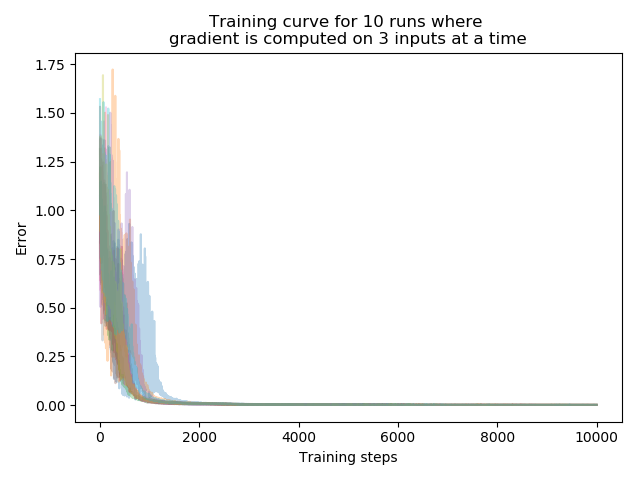
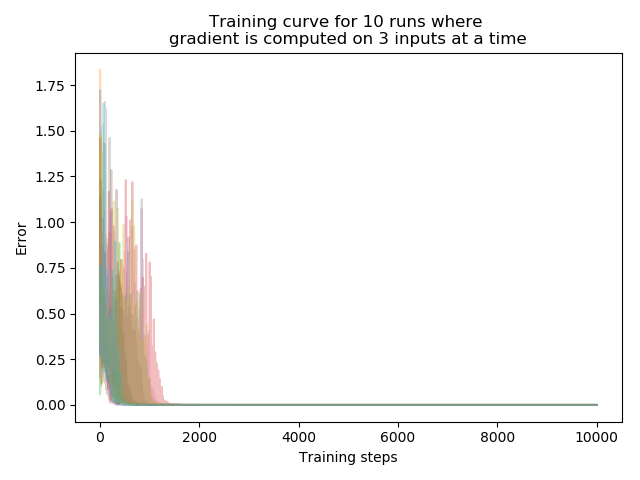
[WIP] feedback alignment weight updates

diff --git a/neural_nets/feedback_alignment.py b/neural_nets/feedback_alignment.py
@@ -30,7 +30,23 @@ class FeedbackAlignment(FNN):
         )
 
         # initializing feedback netowrk with random weights
-        self.feedback_net = FNN(reversed(units_per_layer), activation=activation)
+        self.feedback_net = FNN(list(reversed(units_per_layer)), activation=activation)
+
+    def single_update(self, input, desired_output):
+        """ one update for one input using feedback network """
+        output = self.forward(input)
+        err = desired_output - output[-1]
+        feedback = self.feedback_net.forward(err)
+
+        outer_deriv = np.reshape(self.d_activation[-1](input), [self.units_per_layer[-1],1])
+        delta_w = np.outer(outer_deriv, feedback[0])
+        self.weights[-1] += self.learning_rate * delta_w
+        self.biases[-1] +=
+        for l in range(0,self.num_layers-2):
+            self.weights[l] += self.learning_rate * np.outer(output[l], feedback[-l-2])
+            self.biases[l] += 
+
+        return err
 
     def training_step(self, inputs, desired_outputs):
         """ One complete forward and backward pass through the network
@@ -41,6 +57,47 @@ class FeedbackAlignment(FNN):
         """
         inputs = np.asarray(inputs)
         desired_outputs = np.asarray(desired_outputs)
+        error = []
 
-        outputs = self.forward(inputs)
-        feedback = self.feedback_net.forward(desired_outputs - outputs)
+        if len(np.shape(inputs)) > 1:
+            for sample, desired_output in zip(inputs, desired_outputs):
+                error.append(self.single_update(sample, desired_output))
+        else:
+            error = [self.single_update(inputs, desired_outputs)]
+
+        return error, np.sum(error)
+
+
+if __name__ == "__main__":
+    import sys
+    import argparse
+
+    parser = argparse.ArgumentParser()
+    parser.add_argument(
+        "--save_dir",
+        help="(string) directory to save results in",
+        type=str,
+        default="../results/backprop",
+    )
+    parser.add_argument(
+        "--num_epochs",
+        help="(int) number of training epochs",
+        type=int,
+        default=10000,
+    )
+    args = parser.parse_args()
+
+    # data
+    inputs = np.asarray([[-1, -1], [-1, 1], [1, -1], [1, 1]])
+    outputs = np.asarray(
+        [[-1, -1], [1, 1], [1, 1], [1, -1]]
+    )  # 2 outputs - OR and XOR logic gates
+
+    # craete network for feedback alignment training
+    net = FeedbackAlignment([2, 3, 2, 2], activation="tanh")
+    for e in range(args.num_epochs):
+        _, e = net.training_step(inputs, outputs)
+        print("Error: {}".format(e))
+
+    # final fwd ppass
+    print("Outputs\n", net.forward(inputs)[-1])

diff --git a/neural_nets/backprop.py b/neural_nets/backprop.py
@@ -97,7 +97,7 @@ class BackPropNet(FNN):
                 self.learning_rate, np.asarray(delta_l_b[-l - 1].flatten())
             )
 
-        return error, np.sum(error)
+        return error, np.sum(np.dot(error, error))
 
     def training_step(self, inputs, desired_outputs):
         """ One complete forward and backward pass through the network
